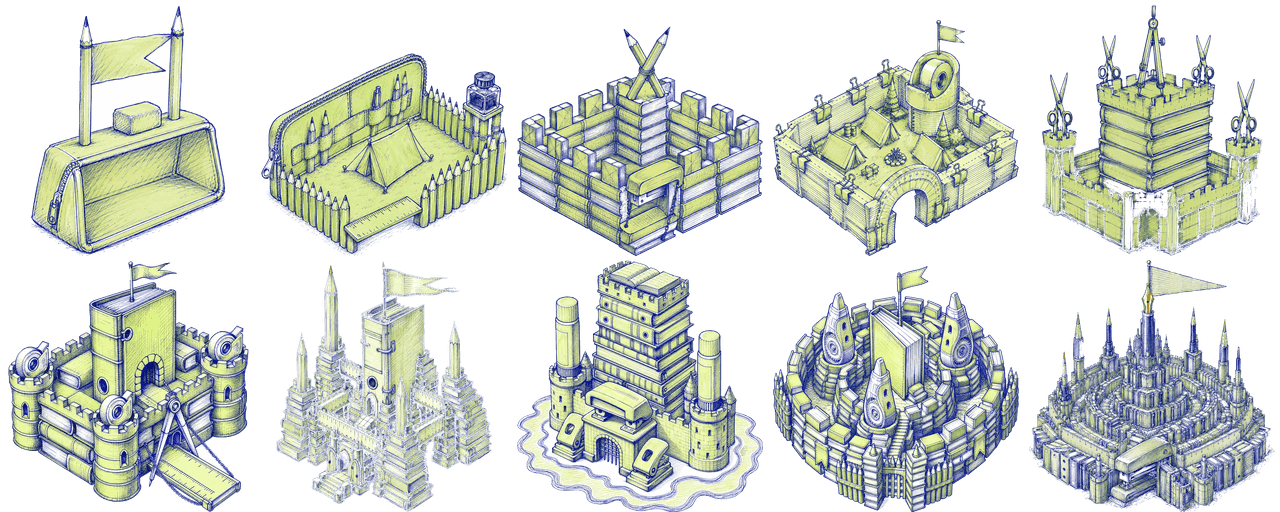
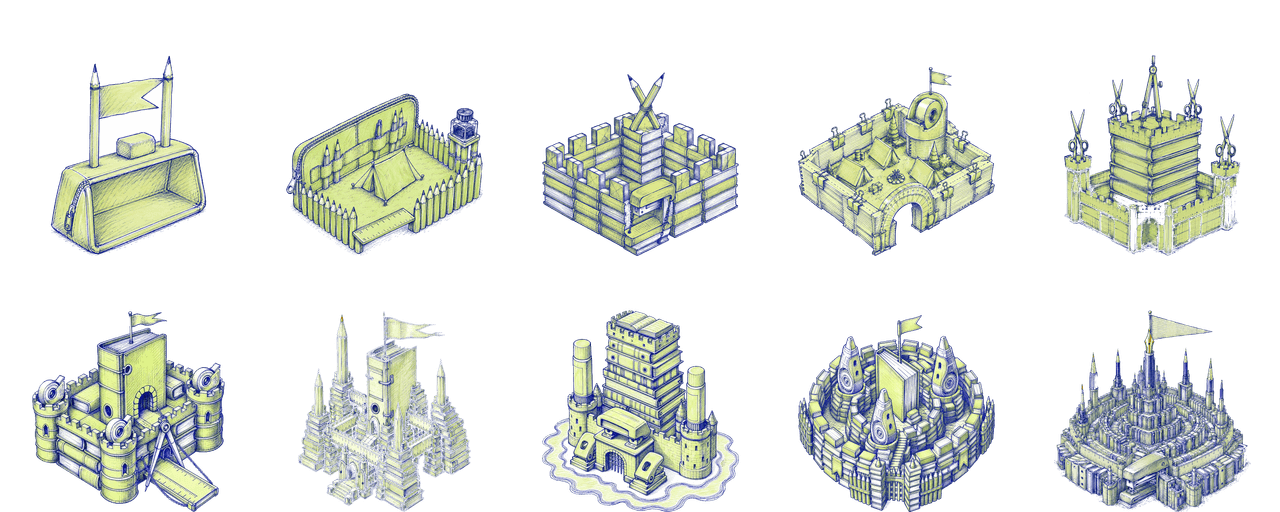
fix(slg): shrink player base art so it fits its 3×3 plot
The player's own world-map base rendered oversized — the L1 dustpan
spilled past the plot outline sideways and the flag towered above. Root
cause is source-art composition, not render geometry: unlike city_atlas
art (which bakes in a ground plate ≈ the plot with a small building on
it), the playerbase "stationery fortress" art fills its 256² frame
edge-to-edge, so fitting it into the full atlas cell made the on-map
sprite ~3.2 tiles of solid building on a 3-tile plot.

Add CONTENT_SCALE=0.8 to the atlas packer: fit the building into 80% of
the cell, bottom-center, leaving side margin + headroom (foot stays
flush to the cell bottom so the renderer's bottom-center anchor still
plants it on the plot). Regenerated playerbase_atlas.{png,json}. Shared
render geometry untouched.

diff --git a/art/ui/slg-playerbase/pack_playerbase_atlas.js b/art/ui/slg-playerbase/pack_playerbase_atlas.js
@@ -31,6 +31,16 @@ const OUT_DIR = path.resolve(__dirname, '../../../client/src/assets/slg');
 const CELL = 256;
 const COLS = 5;
 const PAD_FRAC = 0.02;
+// Fraction of the cell the (bottom-aligned, centered) building content is scaled to occupy. UNLIKE
+// the city atlas — whose source art bakes in a big isometric ground plate that visually equals the
+// 3×3 plot, leaving the actual building small within it — this "stationery fortress" art has NO
+// ground plate: the object (dustpan, book-fort, …) fills its own source frame edge-to-edge. Fitting
+// that straight into the full CELL made the on-map sprite (BASE_SPRITE_TILES=3.2 tiles) read as ~3.2
+// tiles of solid building sitting on a 3-tile plot — i.e. visibly oversized/overhanging. Scaling the
+// content below 1.0 reproduces the city art's breathing room: side margin (building narrower than the
+// plot diamond) + headroom above (flags/spires clear the top). Foot stays flush to the cell bottom so
+// the renderer's bottom-center anchor still plants it on the plot. Tune visually against the running map.
+const CONTENT_SCALE = 0.8;
 const TSTEP = 33;
 const TSEED = 0;
 const PRECUT_ALPHA_FRAC = 0.02;
@@ -130,9 +140,10 @@ async function makeCell(srcPath) {
   const cw = Math.min(width, box.maxX + pad + 1) - left;
   const ch = Math.min(height, box.maxY + 1) - top;
 
+  const inner = Math.round(CELL * CONTENT_SCALE);
   const fitted = await sharp(Buffer.from(data), { raw: { width, height, channels: 4 } })
     .extract({ left, top, width: cw, height: ch })
-    .resize(CELL, CELL, { fit: 'inside', background: { r: 0, g: 0, b: 0, alpha: 0 } })
+    .resize(inner, inner, { fit: 'inside', background: { r: 0, g: 0, b: 0, alpha: 0 } })
     .png()
     .toBuffer();
   const fm = await sharp(fitted).metadata();